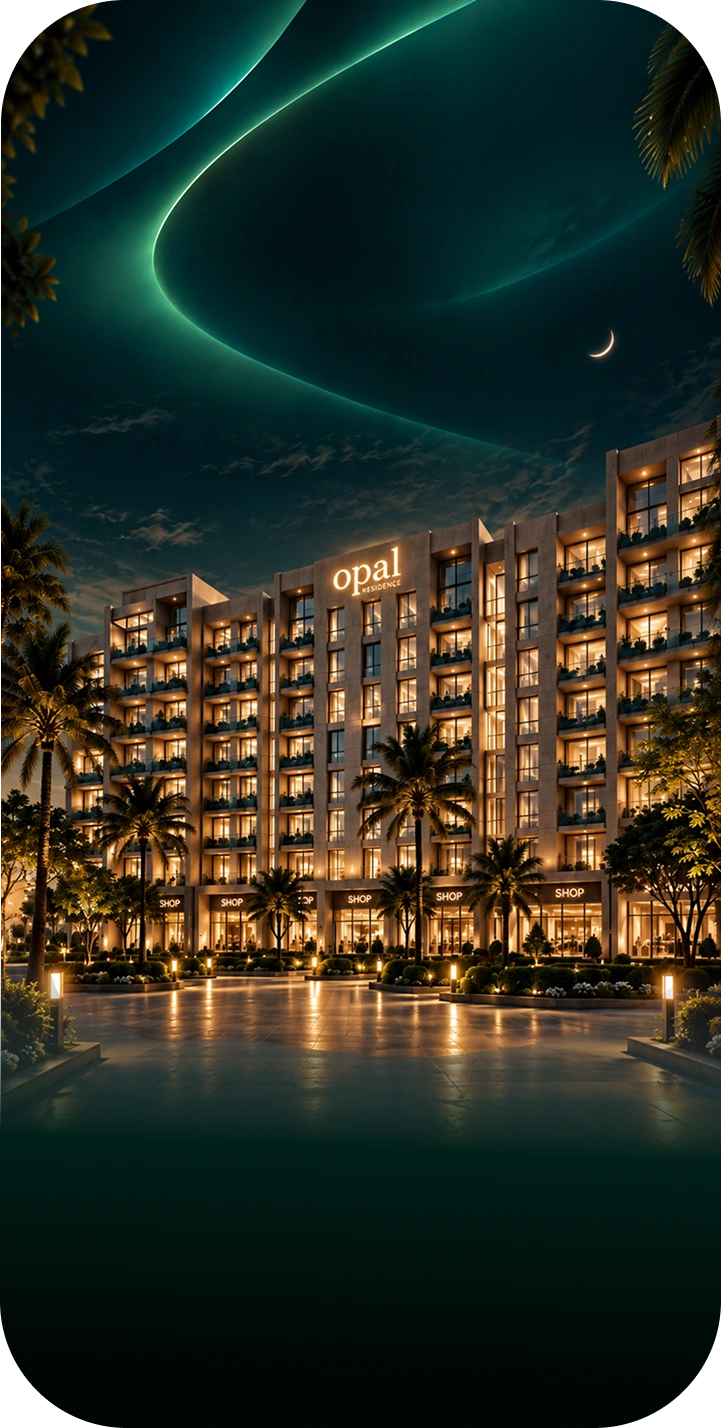
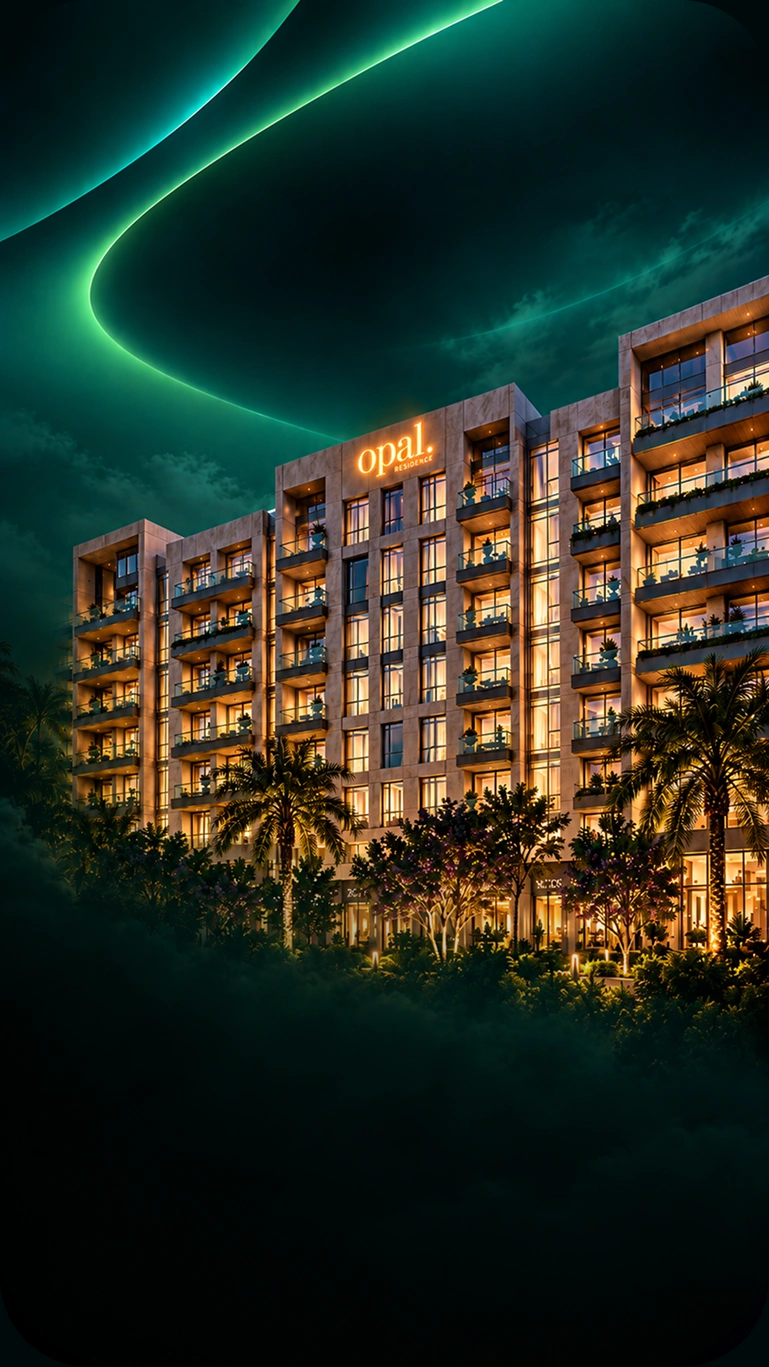
change the welcome screen

diff --git a/src/screens/WelcomeScreen/WelcomeScreen.styles.ts b/src/screens/WelcomeScreen/WelcomeScreen.styles.ts
@@ -1,21 +1,28 @@
 import type { EdgeInsets } from 'react-native-safe-area-context';
 
+import { DESIGN_FRAME, designFrameFromExport } from '@/utils/responsive';
 import { makeStyles } from '@/utils/makeStyles';
-import { DESIGN_FRAME } from '@/utils/responsive';
 
 /**
- * Layout measured from Assets/screens/start 1.png, in design dp (360×714 frame).
+ * Assets/screens/start 4.png is 791×1367 px, a 22 px phone bezel on its left and the 769 px
+ * screen beside it (the width of its background, Assets/bg/start bg 4.png): a 360×640 dp frame.
+ */
+export const WELCOME_FRAME = designFrameFromExport(769, 1367);
+
+/**
+ * Layout measured from Assets/screens/start 4.png, in design dp (360×640 frame). The headline
+ * sits low, under the building; the logo and the button are centred.
  * `top` / `bottom` values are screen positions and scale with screen height so the
  * content keeps its place over the background artwork; everything else scales with width.
  */
 export const welcomeDesign = {
-  logo: { top: 69.5, left: 126, width: 97, height: 38 },
-  headline: { top: 185.7, left: 31 },
-  title: { left: 27 },
-  accentRule: { width: 28, height: 1.5, marginTop: 4 },
-  tagline: { marginTop: 5.5 },
+  logo: { top: 77.2, width: 117, height: 45.7 },
+  headline: { top: 449.9, left: 18.7 },
+  title: { left: 16 },
+  accentRule: { width: 25.7, height: 1.4, marginTop: 8.3 },
+  tagline: { marginTop: 6.1 },
   arrowIcon: { size: 10.8 },
-  cta: { width: 292, bottom: 76 },
+  cta: { width: 273.4, bottom: 52.4 },
 } as const;
 
 const d = welcomeDesign;
@@ -39,7 +46,7 @@ export const useWelcomeStyles = makeStyles(
         paddingBottom: ctaBottom - insets.bottom,
       },
       logo: {
-        marginStart: scale(d.logo.left),
+        alignSelf: 'center',
       },
       headline: {
         marginTop: headlineTop - logoBottom,
@@ -64,4 +71,5 @@ export const useWelcomeStyles = makeStyles(
       },
     };
   },
+  { frame: WELCOME_FRAME },
 );

diff --git a/src/theme/typography.ts b/src/theme/typography.ts
@@ -102,17 +102,19 @@ export type TextVariant =
  * and are not scaled with the screen width, as there. Weights are this app's (Inter by role).
  */
 export const textVariants: Record<TextVariant, TextStyle> = {
-  // Welcome (start 1.png)
+  // Welcome (start 4.png, which draws them about 6% smaller than the earlier start 1.png)
+  // The design sets this in a thin serif the app doesn't bundle; Inter Regular at this size
+  // matches its width and height.
   heading: {
-    fontFamily: fontFamilies.semiBold,
-    fontSize: 29,
-    lineHeight: 32,
+    fontFamily: fontFamilies.regular,
+    fontSize: 19,
+    lineHeight: 24,
   },
   subheading: {
     fontFamily: fontFamilies.regular,
-    fontSize: 10,
-    lineHeight: 14,
-    letterSpacing: 2,
+    fontSize: 9.5,
+    lineHeight: 13,
+    letterSpacing: 1.9,
   },
   button: {
     fontFamily: fontFamilies.bold,

diff --git a/src/constants/images.ts b/src/constants/images.ts
@@ -23,6 +23,7 @@ type ImageKey =
  * backgrounds at quality 95, photos at quality 85 and at most 1000 px wide.
  */
 export const images: Readonly<Record<ImageKey, number>> = {
+  // Assets/bg/start bg 4.png, its rounded mockup corners flattened onto the art's own near-black.
   welcomeBackground: require('../assets/images/backgrounds/welcome-background.webp'),
   signInBackground: require('../assets/images/backgrounds/sign-in-background.webp'),
   // Assets/bg/bg home.png: the dark theme's artwork behind Home and the service screens.

diff --git a/src/screens/WelcomeScreen/WelcomeScreen.data.ts b/src/screens/WelcomeScreen/WelcomeScreen.data.ts
@@ -9,7 +9,7 @@ export interface WelcomeContent {
   ctaHint: string;
 }
 
-/** English copy exactly as shown in Assets/screens/start 1.png. */
+/** English copy exactly as shown in Assets/screens/start 4.png. */
 export const welcomeContent: Localized<WelcomeContent> = {
   en: {
     title: 'opal residence',
